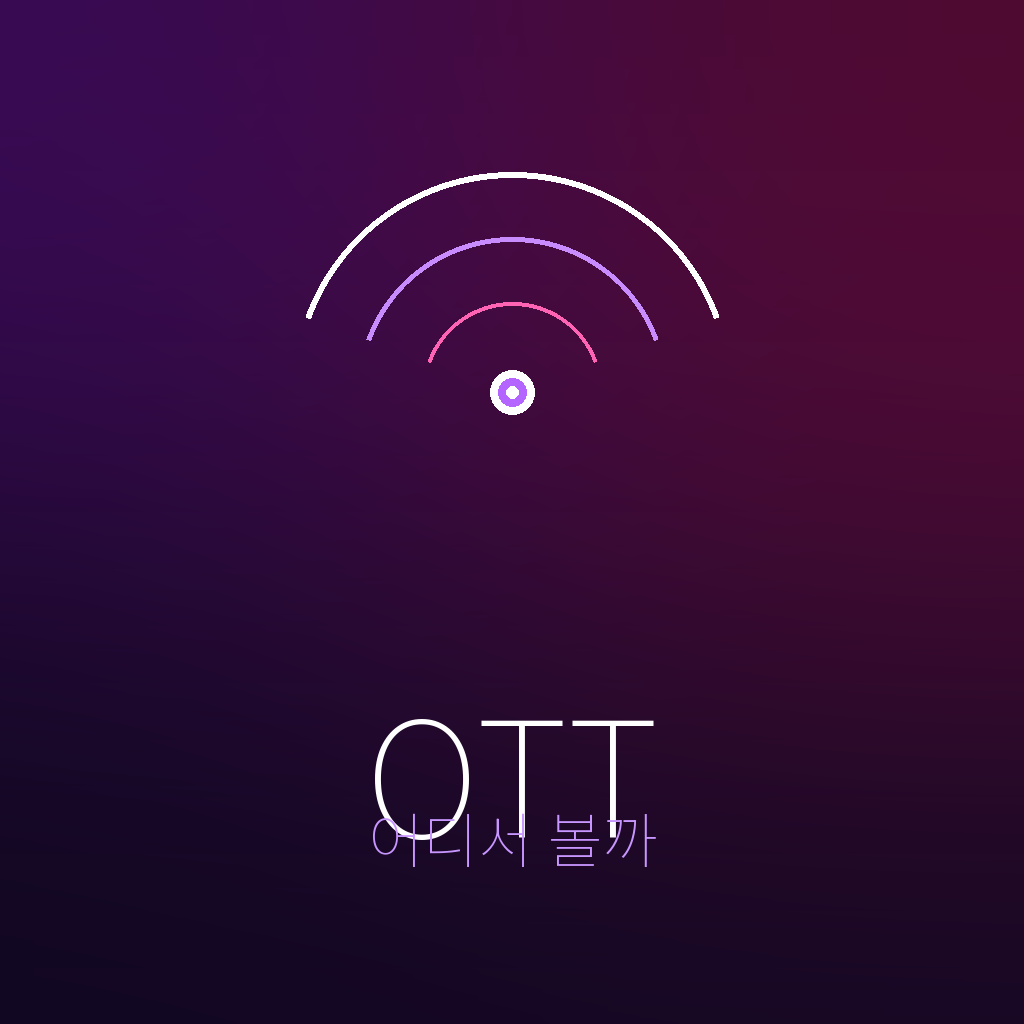
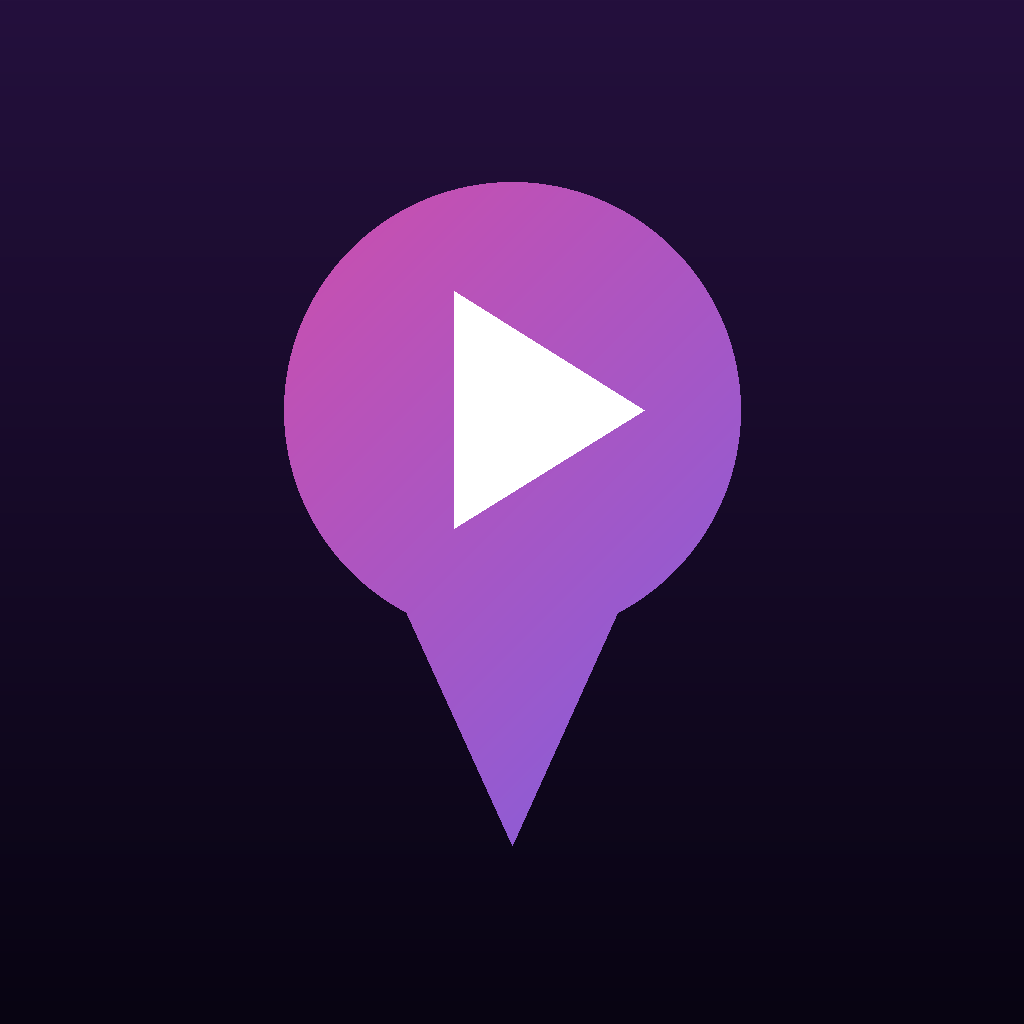
test

diff --git a/supabase/functions/delete-account/index.ts b/supabase/functions/delete-account/index.ts
@@ -7,6 +7,8 @@ import { createClient } from "jsr:@supabase/supabase-js@2";
 const supabaseUrl = Deno.env.get("SUPABASE_URL") ?? "";
 const serviceRoleKey = Deno.env.get("SUPABASE_SERVICE_ROLE_KEY") ?? "";
 const supabaseAnonKey = Deno.env.get("SUPABASE_ANON_KEY") ?? "";
+// 카카오 연결 끊기(unlink)용 Admin 키. supabase secrets set KAKAO_ADMIN_KEY=... 로 등록.
+const kakaoAdminKey = Deno.env.get("KAKAO_ADMIN_KEY") ?? "";
 
 const CORS_HEADERS = {
   "Access-Control-Allow-Origin": "*",
@@ -72,6 +74,33 @@ Deno.serve(async (req: Request): Promise<Response> => {
   const adminClient = createClient(supabaseUrl, serviceRoleKey, {
     auth: { autoRefreshToken: false, persistSession: false },
   });
+
+  // ── 2-1. 카카오 연결 끊기 (unlink) ───────────────────────────────────────────
+  // 카카오 정책상 회원 탈퇴 시 앱 연결을 끊어야 함. 안 끊으면 재가입 시 동의 화면이
+  // 생략되고, 카카오 "연결된 서비스"에 앱이 남는다.
+  // 실패해도 계정 삭제 자체는 진행한다(탈퇴가 막히면 안 되므로 non-fatal).
+  const kakaoUserId = user.identities?.find((i) => i.provider === "kakao")?.id;
+  if (kakaoAdminKey && kakaoUserId) {
+    try {
+      const res = await fetch("https://kapi.kakao.com/v1/user/unlink", {
+        method: "POST",
+        headers: {
+          Authorization: `KakaoAK ${kakaoAdminKey}`,
+          "Content-Type": "application/x-www-form-urlencoded",
+        },
+        body: `target_id_type=user_id&target_id=${kakaoUserId}`,
+      });
+      if (!res.ok) {
+        console.error(`[delete-account] kakao unlink failed status=${res.status} body=${await res.text()}`);
+      } else {
+        console.log(`[delete-account] kakao unlinked id=${kakaoUserId}`);
+      }
+    } catch (e) {
+      console.error(`[delete-account] kakao unlink error=${e instanceof Error ? e.message : String(e)}`);
+    }
+  } else {
+    console.warn(`[delete-account] kakao unlink skipped (adminKey=${!!kakaoAdminKey}, kakaoId=${kakaoUserId ?? "none"})`);
+  }
 
   const { error: deleteError } = await adminClient.auth.admin.deleteUser(user.id);
 

diff --git a/src/app/(tabs)/search.tsx b/src/app/(tabs)/search.tsx
@@ -33,7 +33,17 @@ export default function SearchScreen() {
     isFetchingNextPage,
   } = useSearch(debouncedQuery);
 
-  const results = data?.pages.flatMap((p) => p.results) ?? [];
+  // 페이지 경계에서 같은 작품이 중복으로 올 수 있어 id+media_type 기준 중복 제거
+  const results = React.useMemo(() => {
+    const flat = data?.pages.flatMap((p) => p.results) ?? [];
+    const seen = new Set<string>();
+    return flat.filter((it) => {
+      const k = `${it.id}-${it.media_type}`;
+      if (seen.has(k)) return false;
+      seen.add(k);
+      return true;
+    });
+  }, [data]);
   const showEmpty = debouncedQuery.length >= 2 && !isLoading && results.length === 0;
 
   // 검색어가 확정되면 최근 검색어에 저장

diff --git a/src/components/mypage/AccountActions.tsx b/src/components/mypage/AccountActions.tsx
@@ -14,10 +14,8 @@ interface MenuItemProps {
 function MenuItem({ label, sublabel, onPress, variant = "default", icon }: MenuItemProps) {
   return (
     <Pressable
-      style={({ pressed }) => [
-        styles.menuItem,
-        pressed && styles.menuItemPressed,
-      ]}
+      style={styles.menuItem}
+      android_ripple={{ color: "#1f2937" }}
       onPress={onPress}
     >
       {icon && <Text style={styles.menuIcon}>{icon}</Text>}
@@ -113,7 +111,6 @@ const styles = StyleSheet.create({
     borderBottomColor: "#1f2937",
     gap: 12,
   },
-  menuItemPressed: { backgroundColor: "#1f2937" },
   menuIcon: { fontSize: 18, width: 24, textAlign: "center" },
   menuTexts: { flex: 1, gap: 2 },
   menuLabel: { color: "#e5e7eb", fontSize: 15 },

diff --git a/src/services/auth.ts b/src/services/auth.ts
@@ -78,8 +78,11 @@ export async function signInWithKakao(): Promise<KakaoLoginResult> {
       (user.user_metadata?.full_name as string | undefined) ??
       (user.user_metadata?.name as string | undefined) ??
       "사용자";
-    const avatarUrl =
-      (user.user_metadata?.avatar_url as string | undefined) ?? null;
+    // 카카오 프로필 이미지는 http로 오는 경우가 있어 https로 강제 (안드로이드 cleartext 차단 회피)
+    const rawAvatar = user.user_metadata?.avatar_url as string | undefined;
+    const avatarUrl = rawAvatar
+      ? rawAvatar.replace(/^http:\/\//, "https://")
+      : null;
 
     const profilePayload: InsertDto<"profiles"> = {
       id: user.id,

diff --git a/src/components/ui/AdBanner.tsx b/src/components/ui/AdBanner.tsx
@@ -6,10 +6,10 @@ import {
   TestIds,
 } from "react-native-google-mobile-ads";
 
-// 실제 배포 시 AdMob 콘솔에서 발급받은 Unit ID로 교체
+// 개발 중에는 테스트 광고, 릴리스에서는 실제 AdMob 광고 단위 사용
 const BANNER_ID = Platform.select({
-  ios: __DEV__ ? TestIds.BANNER : "ca-app-pub-XXXXXXXXXXXXXXXX/XXXXXXXXXX",
-  android: __DEV__ ? TestIds.BANNER : "ca-app-pub-XXXXXXXXXXXXXXXX/XXXXXXXXXX",
+  android: __DEV__ ? TestIds.BANNER : "ca-app-pub-6630409826466167/3359563605",
+  ios: TestIds.BANNER, // iOS 출시 시 실제 iOS 배너 단위 ID로 교체
 }) as string;
 
 interface AdBannerProps {

diff --git a/src/components/mypage/ProfileHeader.tsx b/src/components/mypage/ProfileHeader.tsx
@@ -54,7 +54,7 @@ export function ProfileHeader() {
         <Image
           source={
             profile.avatar_url
-              ? { uri: profile.avatar_url }
+              ? { uri: profile.avatar_url.replace(/^http:\/\//, "https://") }
               : require("@/assets/default-avatar.png")
           }
           style={styles.avatar}